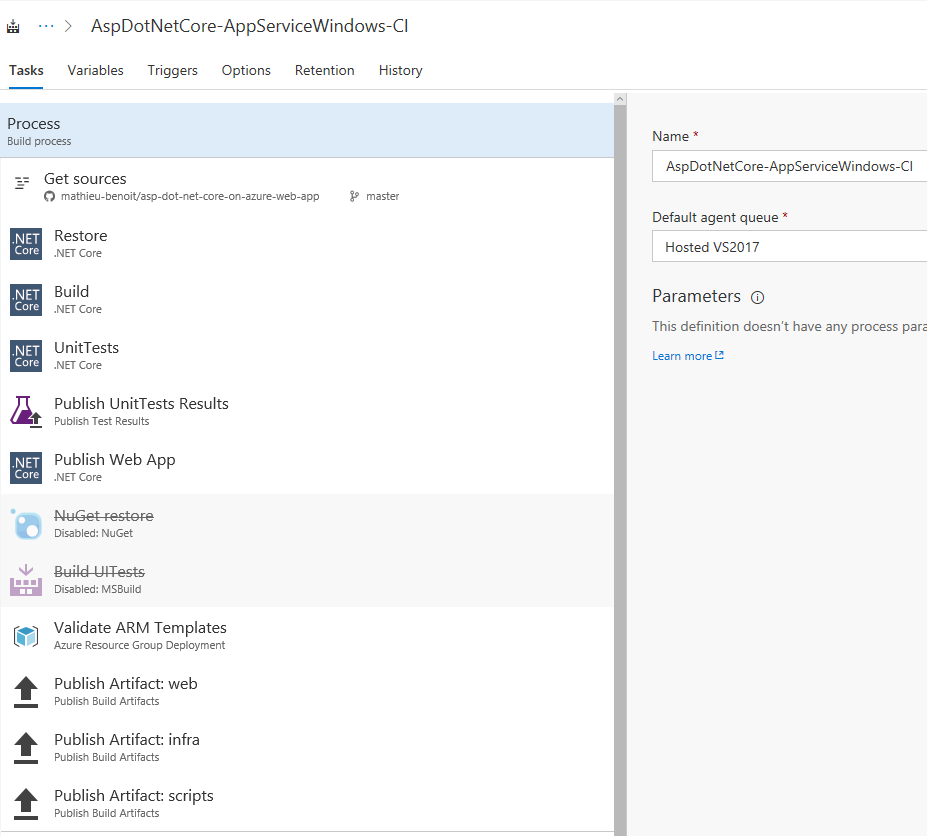
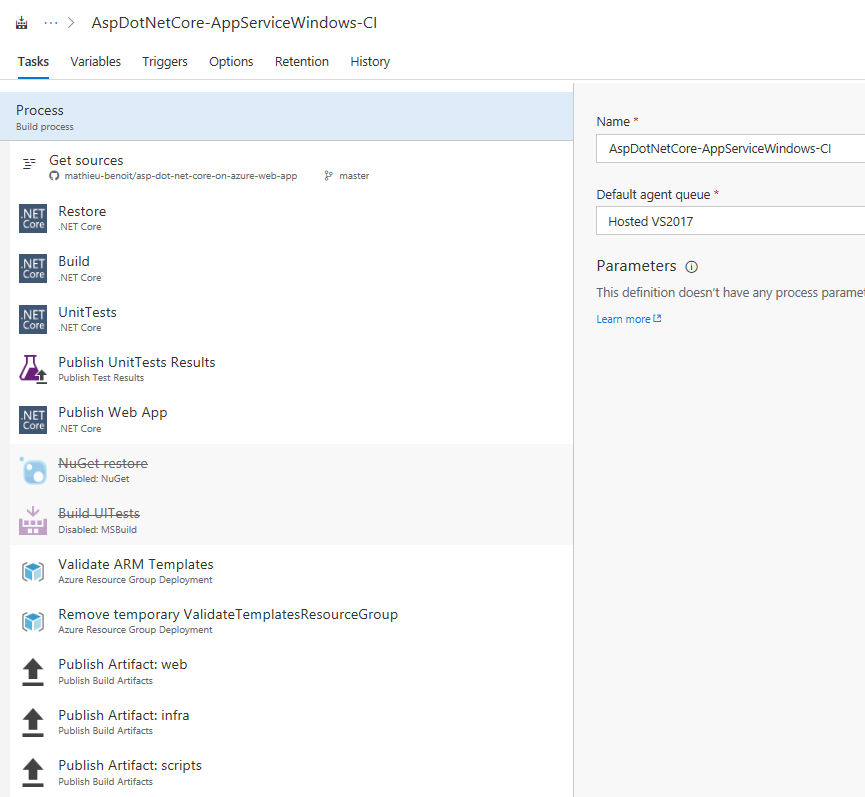
Improve validate arm templates steps.

Changed region(s): [[0.0, 0.0, 1.0, 1.0]]

diff --git a/docs/AspDotNetCore-AppServiceLinux-CI.md b/docs/AspDotNetCore-AppServiceLinux-CI.md
@@ -38,6 +38,7 @@ TODO
 ## Variables
 - BuildConfiguration = release
 - DOTNET_SKIP_FIRST_TIME_EXPERIENCE = true
+- ValidateTemplatesResourceGroup = validate-templates-rg
 
 ## Repository
 - Repository Type = GitHub
@@ -109,12 +110,18 @@ TODO
   - Version = 2.*
   - Azure subscription = set appropriate
   - Action = Create or update resource group
-  - Resource group = test
+  - Resource group = $(ValidateTemplatesResourceGroup)
   - Location = West US
   - Template location = Linked artifact
   - Template = infra/templates/deploy-linux.json
   - Override template parameters = -appServicePlanName test -webAppName test -registryName test -dockerImageName test
   - Deployment mode = Validation only
+- Remove temporary ValidateTemplatesResourceGroup
+  - Type = Azure Resource Group Deployment
+  - Version = 2.*
+  - Azure subscription = set appropriate
+  - Action = Delete resource group
+  - Resource group = $(ValidateTemplatesResourceGroup)
 - Publish Artifact: infra
   - Type = Publish Build Artifacts
   - Version = 1.*

diff --git a/docs/AspDotNetCore-AppServiceWindows-CI.md b/docs/AspDotNetCore-AppServiceWindows-CI.md
@@ -13,6 +13,7 @@ TODO
 ## Variables
 - BuildConfiguration = release
 - DOTNET_SKIP_FIRST_TIME_EXPERIENCE = true
+- ValidateTemplatesResourceGroup = validate-templates-rg
 
 ## Repository
 - Repository Type = GitHub
@@ -62,12 +63,18 @@ TODO
   - Version = 2.*
   - Azure subscription = set appropriate
   - Action = Create or update resource group
-  - Resource group = test
+  - Resource group = $(ValidateTemplatesResourceGroup)
   - Location = East US
   - Template location = Linked artifact
   - Template = infra/templates/deploy-windows.json
   - Override template parameters = -appServicePlanName test -webAppName test
   - Deployment mode = Validation only
+- Remove temporary ValidateTemplatesResourceGroup
+  - Type = Azure Resource Group Deployment
+  - Version = 2.*
+  - Azure subscription = set appropriate
+  - Action = Delete resource group
+  - Resource group = $(ValidateTemplatesResourceGroup)
 - Publish Artifact: web
   - Type = Publish Build Artifacts
   - Version = 1.*
